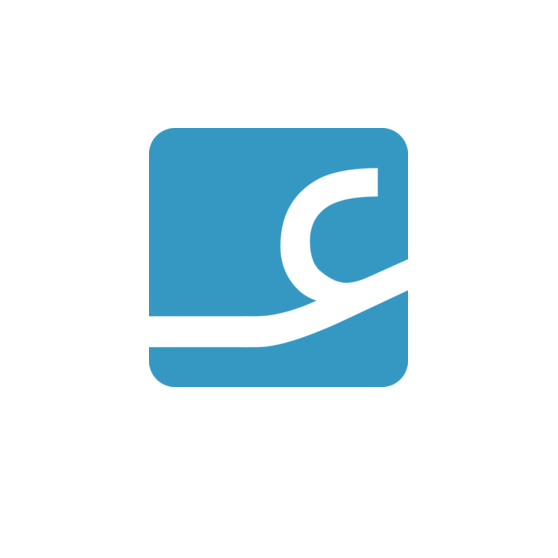
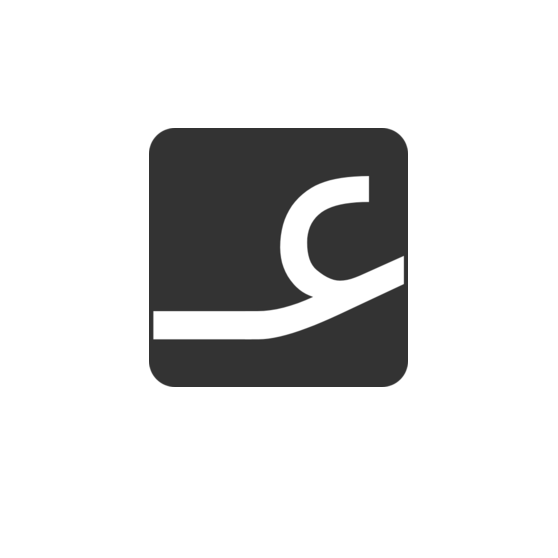
Site updated: 2020-11-14 19:01:37

Changed region(s): [[0.2437, 0.2133, 0.7312, 0.7007]]

diff --git a/css/main.css b/css/main.css
@@ -3141,7 +3141,7 @@ html[dir*="rtl"] blockquote {
   right: auto;
   left: -30px;
   width: calc(100% - 60px);
-  border-right: 4px solid #3199c4;
+  border-right: 4px solid #333;
   margin-bottom: 26px;
 }
 html[dir*="rtl"] blockquote p {
@@ -3193,7 +3193,7 @@ html[dir*="rtl"] .sidebar-nav li.sidebar-nav-overview {
 html[dir*="rtl"] .github-corner svg {
   border: 0;
   color: #fff;
-  fill: #3498c3;
+  fill: #333;
   position: absolute;
   left: 0;
   top: 0;
@@ -3245,10 +3245,6 @@ html[dir*="rtl"] .footer-inner {
   display: none;
 }
 @media (max-width: 767px) {
-  .site-brand-container {
-    background: #fff !important;
-    border-top: 3px solid #3199c4 !important;
-  }
   .header-inner {
     margin-bottom: 16px;
     padding: 0 !important;
@@ -3300,13 +3296,13 @@ hr {
   z-index: 999;
 }
 .sidebar-toggle {
-  background: #3498c3;
+  background: #333;
   border-radius: 50%;
   padding: 14px;
 }
 .back-to-top,
 .reading-progress-bar {
-  background: #3498c3;
+  background: #333;
 }
 .sidebar-static {
   text-align: right;
@@ -3318,7 +3314,7 @@ hr {
 }
 .book-mark-link::before,
 .menu-item .fa {
-  color: #3498c3;
+  color: #333;
 }
 pre.mermaid {
   background: none;
@@ -3372,18 +3368,14 @@ pre.mermaid .label {
   visibility: inherit !important;
 }
 .languages i {
-  color: #3498c3;
+  color: #333;
   font-size: 1.1em;
 }
 .languages span {
   margin: 0 !important;
 }
 .headband {
-  background: #3199c4;
   height: 3px;
-}
-.site-brand-container {
-  background: #3199c4 !important;
 }
 @media (max-width: 567px) {
   .post-block:first-child {
